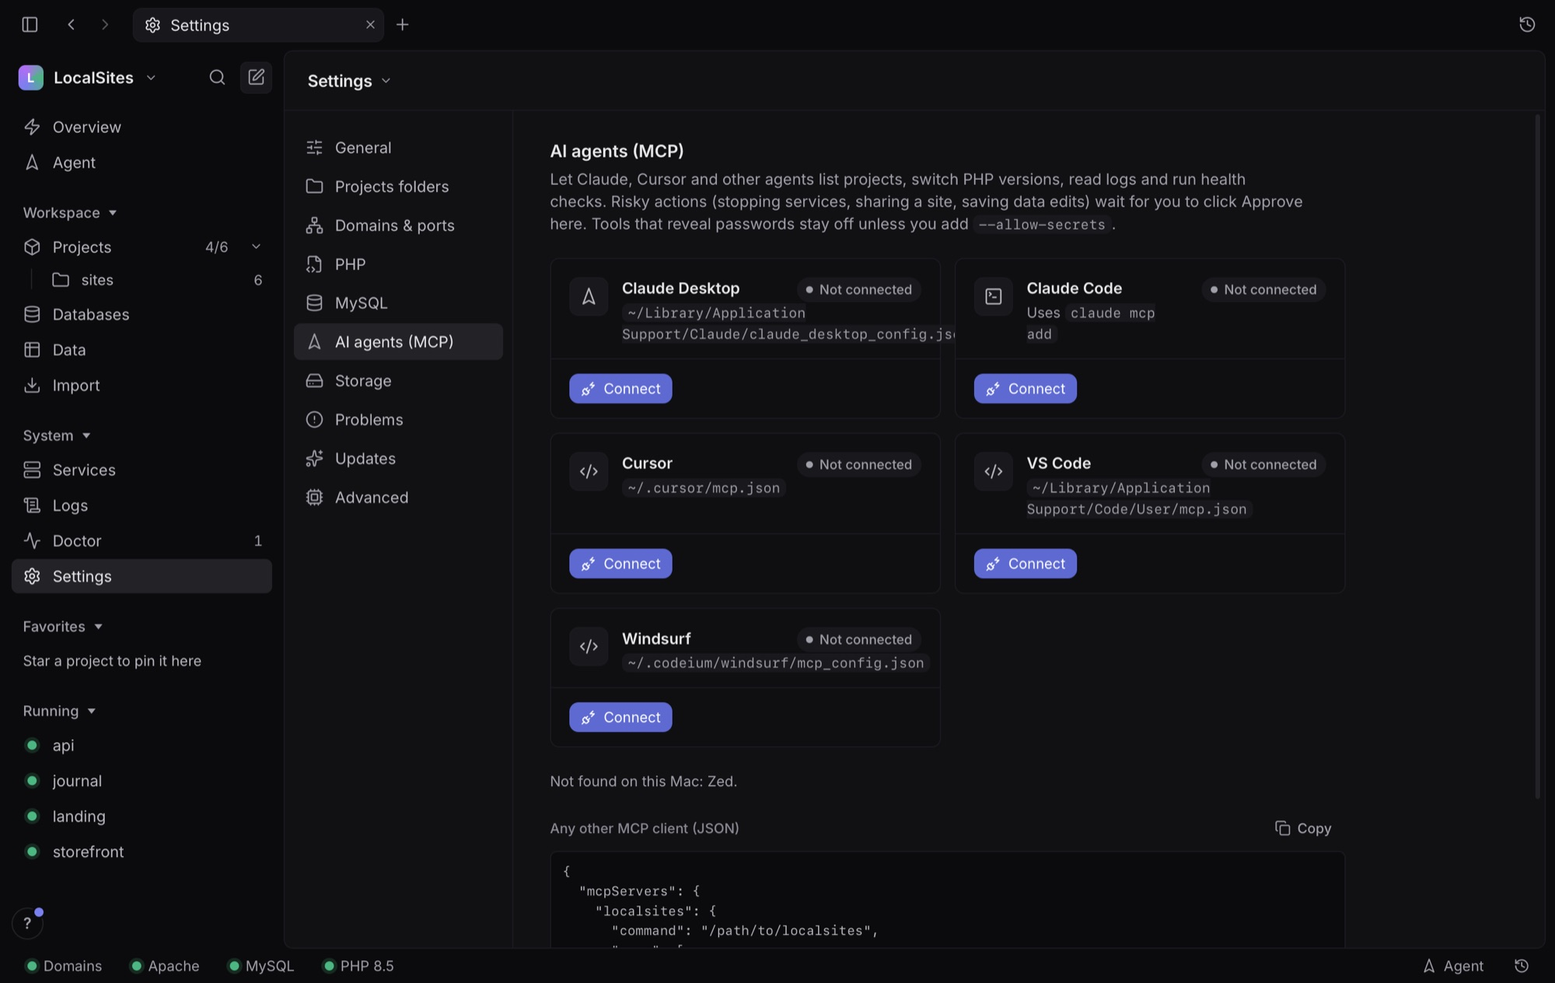
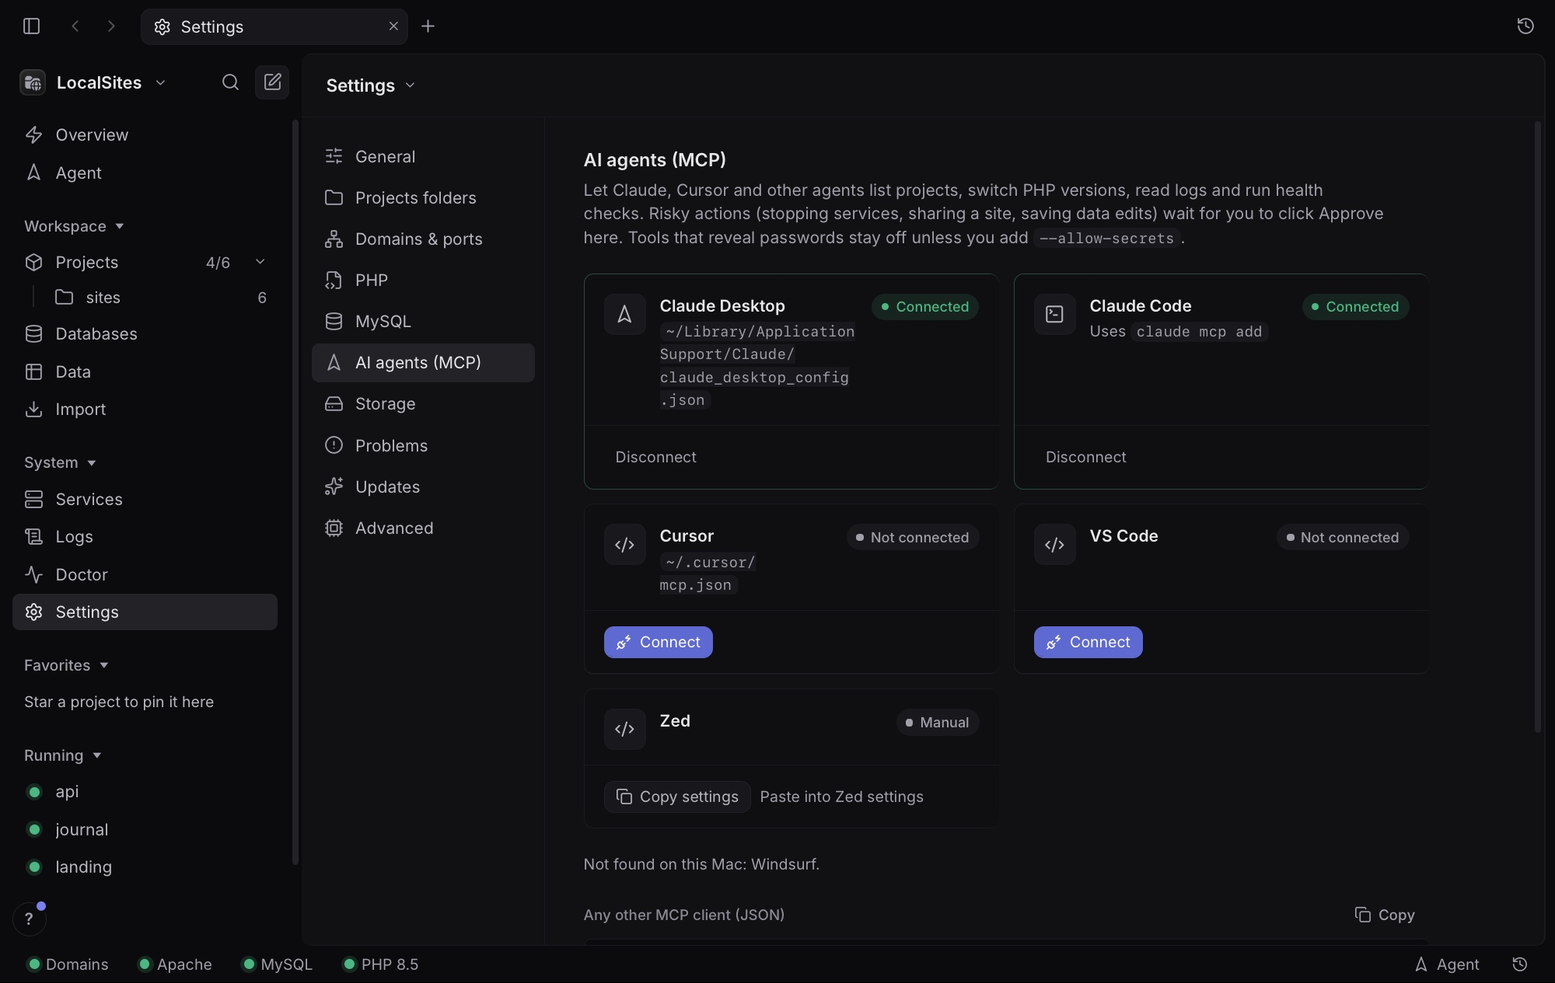
docs: new screenshots with the new features, taken by a script
The README and website screenshots still showed an old placeholder logo and
missed the 1.4 features. tests/ui/screenshots.spec.js now builds a demo
workspace in a throwaway sandbox (sample projects, a shop database, git history)
and takes every screenshot the same way (npx playwright test -c
screenshots.config.js), so they can be redone after any UI change. New:
the Setup card and the editor chooser, on the website (a Setup section) and in
the README. Nothing from the computer taking them is shown.

Also: long config paths in the AI agents cards wrap after a slash instead of
running past the card.

diff --git a/tests/ui/screenshots.spec.js b/tests/ui/screenshots.spec.js
@@ -1,0 +1,193 @@
+// Takes docs/screenshots/*.jpg (see screenshots.config.js). Demo projects and data only: nothing from
+// the computer it runs on is shown.
+const { test, expect } = require('@playwright/test');
+const fs = require('fs'), os = require('os'), path = require('path');
+const { execFileSync } = require('child_process');
+
+const state = () => JSON.parse(fs.readFileSync(path.join(os.tmpdir(), 'lsui-state.json'), 'utf8'));
+const out = (name) => path.join(state().root, 'docs', 'screenshots', name);
+const call = (page, method, params = {}) => page.evaluate(async ([m, p]) => {
+  const r = await fetch('/__call/' + m, { method: 'POST', body: JSON.stringify(p) });
+  const j = await r.json(); if (!r.ok) throw new Error(j.error); return j;
+}, [method, params]);
+const shot = (page, name) => page.screenshot({ path: out(name), type: 'jpeg', quality: 86 });
+
+// The same editors on every machine, so the pictures don't depend on what's installed here
+const APPS = { apps: [
+  { id: 'finder', name: 'Finder', kind: 'files' }, { id: 'vscode', name: 'VS Code', kind: 'editor' }, { id: 'cursor', name: 'Cursor', kind: 'editor' },
+  { id: 'zed', name: 'Zed', kind: 'editor' }, { id: 'phpstorm', name: 'PhpStorm', kind: 'editor' }, { id: 'sublime', name: 'Sublime Text', kind: 'editor' },
+  { id: 'iterm', name: 'iTerm2', kind: 'terminal' }, { id: 'ghostty', name: 'Ghostty', kind: 'terminal' }, { id: 'github', name: 'GitHub Desktop', kind: 'git' },
+  { id: 'safari', name: 'Safari', kind: 'browser' }, { id: 'chrome', name: 'Google Chrome', kind: 'browser' }], defaults: { editor: 'cursor', terminal: 'ghostty' } };
+
+// Fixed answers for what depends on this computer (installed apps, agent apps, GitHub account), and the
+// sandbox's temporary folder shown as ~/Sites
+const json = (body) => (r) => r.fulfill({ contentType: 'application/json', body: JSON.stringify(body) });
+async function stubApps(page, defaults = APPS.defaults) {
+  await page.route('**/__call/apps.list', json({ ...APPS, defaults }));
+  await page.route('**/__call/agents.list', json([
+    { id: 'claude-desktop', name: 'Claude Desktop', found: true, connected: true, config: '~/Library/Application Support/Claude/claude_desktop_config.json' },
+    { id: 'claude-code', name: 'Claude Code', found: true, connected: true },
+    { id: 'cursor', name: 'Cursor', found: true, connected: false, config: '~/.cursor/mcp.json' },
+    { id: 'vscode', name: 'VS Code', found: true, connected: false },
+    { id: 'windsurf', name: 'Windsurf', found: false, connected: false },
+    { id: 'zed', name: 'Zed', found: true, connected: false, manual: '{"context_servers":{}}' }]));
+  await page.route('**/__call/git.hosting', json({ provider: 'github', repo: 'acme/storefront',
+    pull_requests: [{ number: 42, title: 'Stripe payment intents', url: 'https://github.com/acme/storefront/pull/42', isDraft: false, reviewDecision: 'APPROVED' }],
+    runs: [{ workflowName: 'Tests', status: 'completed', conclusion: 'success', url: 'https://github.com/acme/storefront/actions', createdAt: '2026-11-12T16:35:00Z' }] }));
+  const { home } = state();
+  await page.addInitScript(([tmp, real]) => {
+    const fix = () => { const w = document.createTreeWalker(document.body, NodeFilter.SHOW_TEXT); for (let n; (n = w.nextNode());) if (n.nodeValue.includes(tmp)) n.nodeValue = n.nodeValue.split(tmp).join(real); };
+    addEventListener('DOMContentLoaded', () => { fix(); new MutationObserver(fix).observe(document.body, { subtree: true, childList: true, characterData: true }); });
+  }, [path.join(fs.realpathSync(home), 'sites'), '~/Sites']);
+  await page.addInitScript(([tmp, real]) => {
+    const fix = () => { const w = document.createTreeWalker(document.body, NodeFilter.SHOW_TEXT); for (let n; (n = w.nextNode());) if (n.nodeValue.includes(tmp)) n.nodeValue = n.nodeValue.split(tmp).join(real); };
+    addEventListener('DOMContentLoaded', () => { fix(); new MutationObserver(fix).observe(document.body, { subtree: true, childList: true, characterData: true }); });
+  }, [path.join(home, 'sites'), '~/Sites']);
+}
+
+function demoWorkspace() {
+  const { home } = state(), sites = path.join(home, 'sites');
+  for (const old of ['hello', 'pubapp', 'blog']) fs.rmSync(path.join(sites, old), { recursive: true, force: true });
+  const put = (rel, body) => { const f = path.join(sites, rel); fs.mkdirSync(path.dirname(f), { recursive: true }); fs.writeFileSync(f, body); };
+  put('storefront/composer.json', JSON.stringify({ name: 'acme/storefront', require: { php: '^8.3', 'laravel/framework': '^12.0' } }, null, 2));
+  put('storefront/artisan', '#!/usr/bin/env php\n');
+  put('storefront/public/index.php', '<?php echo "storefront";');
+  put('storefront/vendor/autoload.php', '<?php');
+  put('storefront/app/Http/Controllers/CheckoutController.php', '<?php\n\nnamespace App\\Http\\Controllers;\n\nclass CheckoutController {}\n');
+  put('api/composer.json', JSON.stringify({ name: 'acme/api', require: { php: '^8.2' } }, null, 2));
+  put('api/vendor/autoload.php', '<?php');
+  put('api/index.php', '<?php echo json_encode(["ok" => true]);');
+  put('journal/wp-config.php', '<?php');
+  put('journal/index.php', '<?php');
+  put('landing/index.html', '<h1>Landing</h1>');
+  put('dashboard/package.json', JSON.stringify({ name: 'dashboard', scripts: { dev: 'next dev' }, dependencies: { next: '15.0.0', react: '19.0.0' } }, null, 2));
+  fs.mkdirSync(path.join(sites, 'dashboard', 'node_modules'), { recursive: true });
+  put('docs-site/index.html', '<h1>Docs</h1>');
+  // git history (fixed names and dates, so the pictures stay the same)
+  const env = { ...process.env, GIT_AUTHOR_NAME: 'Maya Chen', GIT_AUTHOR_EMAIL: 'maya@example.com', GIT_COMMITTER_NAME: 'Maya Chen', GIT_COMMITTER_EMAIL: 'maya@example.com' };
+  const git = (dir, ...args) => execFileSync('git', ['-C', path.join(sites, dir), ...args], { env, stdio: 'pipe' });
+  for (const dir of ['storefront', 'api', 'journal', 'dashboard']) {
+    git(dir, 'init', '-q', '-b', 'main');
+    git(dir, 'remote', 'add', 'origin', `git@github.com:acme/${dir}.git`);
+  }
+  const commits = [['Set up Laravel 12', '2026-10-02T10:00:00'], ['Product catalogue and search', '2026-10-09T15:20:00'], ['Cart and checkout pages', '2026-10-21T11:45:00']];
+  for (const dir of ['storefront', 'api', 'journal', 'dashboard']) {
+    for (const [msg, date] of dir === 'storefront' ? commits : [['First version', '2026-10-01T09:00:00']]) {
+      put(path.join(dir, 'CHANGES.md'), msg + '\n');
+      git(dir, 'add', '-A');
+      execFileSync('git', ['-C', path.join(sites, dir), 'commit', '-q', '-m', msg], { env: { ...env, GIT_AUTHOR_DATE: date, GIT_COMMITTER_DATE: date }, stdio: 'pipe' });
+    }
+  }
+  git('storefront', 'checkout', '-q', '-b', 'feature/payments');
+  put('storefront/app/Http/Controllers/PaymentController.php', '<?php\n\nnamespace App\\Http\\Controllers;\n\nclass PaymentController {}\n');
+  git('storefront', 'add', '-A');
+  execFileSync('git', ['-C', path.join(sites, 'storefront'), 'commit', '-q', '-m', 'Stripe payment intents'], { env: { ...env, GIT_AUTHOR_DATE: '2026-11-12T16:30:00', GIT_COMMITTER_DATE: '2026-11-12T16:30:00' }, stdio: 'pipe' });
+  put('storefront/app/Http/Controllers/CheckoutController.php', '<?php\n\nnamespace App\\Http\\Controllers;\n\nclass CheckoutController\n{\n    // pay with the saved card\n}\n');
+  put('storefront/resources/views/checkout.blade.php', '<form></form>\n');
+  // the demo shop database
+  const rows = ['Linen Overshirt', 'Merino Crew Sweater', 'Canvas Tote', 'Selvedge Denim', 'Leather Card Wallet', 'Wool Beanie', 'Oxford Shirt', 'Chore Jacket', 'Cotton Tee 3-Pack', 'Suede Desert Boots', 'Weekender Bag', 'Cashmere Scarf'];
+  const prices = [89, 129, 39, 149, 59, 29, 79, 189, 49, 169, 219, 99], stock = [24, 12, 80, 9, 41, 63, 30, 7, 120, 15, 5, 18];
+  const sql = `CREATE TABLE products (id INT PRIMARY KEY AUTO_INCREMENT, name VARCHAR(80) NOT NULL, sku VARCHAR(20) NOT NULL, price DECIMAL(8,2) NOT NULL, stock INT NOT NULL, created_at DATETIME NOT NULL);
+INSERT INTO products (name, sku, price, stock, created_at) VALUES ${rows.map((n, i) => `('${n}', 'LS-${1001 + i}', ${prices[i]}.00, ${stock[i]}, '2026-10-${String(2 + i * 2 > 28 ? 28 : 2 + i * 2).padStart(2, '0')} ${String(8 + (i % 9)).padStart(2, '0')}:${String((i * 17) % 60).padStart(2, '0')}:00')`).join(',\n')};
+CREATE TABLE customers (id INT PRIMARY KEY AUTO_INCREMENT, name VARCHAR(80), email VARCHAR(120));
+INSERT INTO customers (name, email) VALUES ('Maya Chen', 'maya@example.com'), ('Leo Martin', 'leo@example.com'), ('Ava Patel', 'ava@example.com');
+CREATE TABLE orders (id INT PRIMARY KEY AUTO_INCREMENT, customer_id INT, total DECIMAL(8,2), placed_at DATETIME);
+INSERT INTO orders (customer_id, total, placed_at) VALUES (1, 218.00, '2026-11-02 10:12:00'), (2, 59.00, '2026-11-05 18:40:00'), (3, 338.00, '2026-11-11 09:05:00');
+`;
+  const file = path.join(home, 'storefront-demo.sql');
+  fs.writeFileSync(file, sql);
+  return file;
+}
+
+test.describe.configure({ mode: 'serial' });
+
+test('set up the demo workspace', async ({ page }) => {
+  const file = demoWorkspace();
+  await page.goto('/');
+  for (const f of ['api', 'journal', 'landing', 'storefront']) await call(page, 'sites.update', { folder: f, enabled: true, php: '8.5' });
+  await call(page, 'db.create', { name: 'storefront' });
+  await call(page, 'db.import', { name: 'storefront', file });
+  await call(page, 'sites.update', { folder: 'storefront', database: 'storefront' });
+});
+
+test('projects (dark and light)', async ({ page, browser }) => {
+  await stubApps(page);
+  await page.goto('/#projects/storefront'); await page.reload();
+  await expect(page.locator('.row[data-row="storefront"]')).toBeVisible();
+  await expect(page.locator('#detail')).toContainText('storefront');
+  await page.waitForTimeout(800);
+  await shot(page, 'projects.jpg');
+  const light = await browser.newContext({ storageState: path.join(os.tmpdir(), 'lsui-auth.json'), viewport: { width: 1280, height: 809 }, deviceScaleFactor: 1.5625, colorScheme: 'light' });
+  const lp = await light.newPage();
+  await stubApps(lp);
+  await lp.goto('/#projects/storefront');
+  await expect(lp.locator('#detail')).toContainText('storefront');
+  await lp.waitForTimeout(800);
+  await shot(lp, 'projects-light.jpg');
+  await light.close();
+});
+
+test('choose your editor', async ({ page }) => {
+  await stubApps(page, {});
+  await page.goto('/#projects/storefront'); await page.reload();
+  await page.locator('#detail [data-openwith="editor"]').scrollIntoViewIfNeeded();
+  await page.locator('#detail [data-openwith="editor"]').click();
+  await expect(page.locator('#keysDialog')).toContainText('Which code editor');
+  await page.waitForTimeout(400);
+  await shot(page, 'editor-chooser.jpg');
+});
+
+test('setup card', async ({ page }) => {
+  const items = [
+    { id: 'domains', title: '.test domains and HTTPS', why: '.test addresses don’t open yet; browsers would warn “Your connection is not private”', kind: 'system', required: true, password: true, steps: ['send .test addresses to LocalSites, then trust the LocalSites certificate (it can only be used for .test addresses)'] },
+    { id: 'php@7.4', title: 'PHP 7.4', why: 'intl can’t load (icu4c@77 is missing) · 3 projects use it', kind: 'repair', required: true, password: false, steps: ['brew trust shivammathur/php', 'brew reinstall shivammathur/php/php@7.4'] },
+    { id: 'php@8.2', title: 'PHP 8.2', why: 'not installed · 1 project uses it', kind: 'install', required: true, password: false, steps: ['brew install shivammathur/php/php@8.2'] }];
+  await stubApps(page);
+  await page.route('**/__call/setup.status', r => r.fulfill({ contentType: 'application/json', body: JSON.stringify({ homebrew: true, items, running: false, log: '' }) }));
+  await page.goto('/#overview'); await page.reload();
+  await expect(page.locator('.ov-sec.setup')).toContainText('Fix everything');
+  await page.waitForTimeout(600);
+  await shot(page, 'setup.jpg');
+});
+
+test('data browser', async ({ page }) => {
+  await stubApps(page);
+  await page.goto('/#data'); await page.reload();
+  await expect(page.locator('#dSchema')).toBeVisible();
+  await page.locator('#dSchema').selectOption('storefront');
+  await page.locator('.tlist [data-dtable="products"]').click();
+  await expect(page.locator('#view')).toContainText('Linen Overshirt');
+  await page.waitForTimeout(500);
+  await shot(page, 'data-browser.jpg');
+});
+
+test('git', async ({ page }) => {
+  await stubApps(page);
+  await page.goto('/#projects/storefront'); await page.reload();
+  await page.locator('#detail [data-dpane="git"]').first().click();
+  await expect(page.locator('#detail')).toContainText('Stripe payment intents');
+  await page.waitForTimeout(800);
+  await shot(page, 'git.jpg');
+});
+
+test('palette, services and agents', async ({ page }) => {
+  await stubApps(page);
+  await page.goto('/#projects'); await page.reload();
+  await expect(page.locator('.row[data-row="storefront"]')).toBeVisible();
+  await page.keyboard.press('Meta+k');
+  await page.locator('#pInput').fill('store');
+  await page.waitForTimeout(500);
+  await shot(page, 'palette.jpg');
+  await page.keyboard.press('Escape');
+  await page.goto('/#services');
+  const addons = page.locator('.c-section', { hasText: 'Add-ons' });
+  await addons.waitFor();
+  await addons.evaluate(el => el.scrollIntoView({ block: 'start' }));
+  await page.waitForTimeout(800);
+  await shot(page, 'services.jpg');
+  await page.goto('/#settings');
+  await page.locator('[data-setsec="agents"]').click();
+  await expect(page.locator('#view')).toContainText('Claude Desktop');
+  await page.waitForTimeout(500);
+  await shot(page, 'agents.jpg');
+});

diff --git a/site/index.html b/site/index.html
@@ -419,6 +419,7 @@ h1, h2, h3 { text-wrap: balance; }
     <a class="brand" href="./" aria-label="LocalSites home"><svg class="logo" aria-hidden="true" viewBox="0 0 24 24"><path fill="currentColor" d="M1.5 6.75C1.5 5.75544 1.89509 4.80161 2.59835 4.09835C3.30161 3.39509 4.25544 3 5.25 3H8.379C8.97554 3.00053 9.54745 3.23792 9.969 3.66L12 5.688L8.91 8.778C8.84029 8.84832 8.75734 8.90415 8.66595 8.94225C8.57455 8.98035 8.47652 8.99998 8.3775 9H1.5V6.75ZM1.5 10.5V17.25C1.5 18.2446 1.89509 19.1984 2.59835 19.9016C3.30161 20.6049 4.25544 21 5.25 21H9.9C9.0367 19.3101 8.7824 17.3742 9.17994 15.5186C9.57747 13.663 10.6026 12.0013 12.0824 10.8133C13.5623 9.62538 15.4064 8.98393 17.304 8.99708C19.2017 9.01023 21.0367 9.67717 22.5 10.8855V9.75C22.5 8.75544 22.1049 7.80161 21.4016 7.09835C20.6984 6.39509 19.7446 6 18.75 6H13.8105L9.9705 9.84C9.76141 10.0493 9.51308 10.2154 9.23973 10.3287C8.96638 10.4419 8.67338 10.5001 8.3775 10.5H1.5ZM15.825 12.225C15.39 13.3155 15.0855 14.808 15.015 16.5H19.485C19.4145 14.808 19.11 13.3155 18.675 12.225C18.4245 11.5995 18.1455 11.142 17.8725 10.854C17.6025 10.569 17.3925 10.5 17.25 10.5C17.1075 10.5 16.8975 10.569 16.6275 10.854C16.3545 11.142 16.0755 11.5995 15.825 12.225ZM14.745 10.98C14.629 11.2041 14.5244 11.4339 14.4315 11.6685C13.9155 12.96 13.584 14.649 13.515 16.5H10.5405C10.676 15.2855 11.1387 14.1305 11.8791 13.1584C12.6196 12.1862 13.6101 11.4333 14.745 10.98ZM19.755 10.98C19.867 11.198 19.971 11.4275 20.067 11.6685C20.5845 12.9615 20.9145 14.649 20.985 16.5H23.958C23.8226 15.2857 23.3602 14.1308 22.62 13.1587C21.8798 12.1865 20.8896 11.4335 19.755 10.98ZM23.958 18H20.985C20.9145 19.851 20.5845 21.54 20.067 22.8315C19.971 23.0715 19.867 23.301 19.755 23.52C20.8896 23.0665 21.8798 22.3135 22.62 21.3413C23.3602 20.3692 23.8226 19.2143 23.958 18ZM17.25 24C17.391 24 17.6025 23.931 17.8725 23.646C18.1455 23.358 18.4245 22.9005 18.675 22.275C19.11 21.1845 19.4145 19.692 19.485 18H15.015C15.0855 19.692 15.39 21.1845 15.825 22.275C16.0755 22.9005 16.3545 23.358 16.6275 23.646C16.8975 23.931 17.1075 24 17.25 24ZM14.745 23.52C13.6099 23.0669 12.619 22.3141 11.8783 21.3419C11.1375 20.3697 10.6746 19.2147 10.539 18H13.515C13.5855 19.851 13.917 21.54 14.433 22.8315C14.53 23.0715 14.634 23.301 14.745 23.52Z"/></svg>LocalSites</a>
     <nav class="links" aria-label="Sections">
       <a href="#features">Features</a>
+      <a href="#setup">Setup</a>
       <a href="#data">Databases</a>
       <a href="#agents">AI agents</a>
       <a href="#switch">Switching</a>
@@ -531,6 +532,28 @@ h1, h2, h3 { text-wrap: balance; }
     </div>
   </section>
 
+  <section id="setup" class="chapter">
+    <div class="wrap head reveal">
+      <div class="eyebrow">Setup</div>
+      <h2>It sets itself up</h2>
+        <p class="sub">No Terminal. Overview lists what's missing or broken, and one click fixes it all.</p>
+    </div>
+    <div class="grow-shot reveal">
+      <div class="shot"><img src="screenshots/setup.jpg" loading="lazy" width="2000" height="1264" alt="Overview listing .test domains, a PHP version to repair and one to install, with a Fix everything button"></div>
+    </div>
+    <div class="wrap">
+      <ul class="points cols reveal">
+          <li><svg viewBox="0 0 24 24" fill="none" stroke="currentColor" stroke-width="2" aria-hidden="true"><path d="M20 6 9 17l-5-5"/></svg><span><b>Fix everything</b>Installs Apache, MySQL 8.4 and every PHP version your projects use, and repairs PHP that Homebrew updates broke.</span></li>
+          <li><svg viewBox="0 0 24 24" fill="none" stroke="currentColor" stroke-width="2" aria-hidden="true"><path d="M20 6 9 17l-5-5"/></svg><span><b>.test without Valet</b>One password prompt sends .test to LocalSites and trusts its certificate, which can only sign .test names.</span></li>
+          <li><svg viewBox="0 0 24 24" fill="none" stroke="currentColor" stroke-width="2" aria-hidden="true"><path d="M20 6 9 17l-5-5"/></svg><span><b>Your editor, never a guess</b>The first Open asks which editor or terminal you use and remembers it. Change it any time.</span></li>
+          <li><svg viewBox="0 0 24 24" fill="none" stroke="currentColor" stroke-width="2" aria-hidden="true"><path d="M20 6 9 17l-5-5"/></svg><span><b>Rename, hide or trash</b>Settings, logs and the address follow a renamed folder. Databases are never touched.</span></li>
+      </ul>
+    </div>
+    <div class="grow-shot reveal" style="margin-top:56px">
+      <div class="shot"><img src="screenshots/editor-chooser.jpg" loading="lazy" width="2000" height="1264" alt="The first Open asks which code editor to use: VS Code, Cursor, Zed, PhpStorm or Sublime Text, with Remember my choice"></div>
+    </div>
+  </section>
+
   <section id="data" class="chapter band">
     <div class="wrap head reveal">
       <div class="eyebrow">Databases</div>
@@ -544,7 +567,7 @@ h1, h2, h3 { text-wrap: balance; }
       <ul class="points cols reveal">
           <li><svg viewBox="0 0 24 24" fill="none" stroke="currentColor" stroke-width="2" aria-hidden="true"><path d="M20 6 9 17l-5-5"/></svg><span><b>Read-only first</b>Every connection starts read-only.</span></li>
           <li><svg viewBox="0 0 24 24" fill="none" stroke="currentColor" stroke-width="2" aria-hidden="true"><path d="M20 6 9 17l-5-5"/></svg><span><b>See the SQL before it runs</b>Edits are staged and saved in one transaction.</span></li>
-          <li><svg viewBox="0 0 24 24" fill="none" stroke="currentColor" stroke-width="2" aria-hidden="true"><path d="M20 6 9 17l-5-5"/></svg><span><b>One login per project</b>No shared root. Passwords live in the macOS Keychain.</span></li>
+          <li><svg viewBox="0 0 24 24" fill="none" stroke="currentColor" stroke-width="2" aria-hidden="true"><path d="M20 6 9 17l-5-5"/></svg><span><b>One login per project</b>No shared root. Passwords live in the macOS Keychain or your Linux keyring.</span></li>
           <li><svg viewBox="0 0 24 24" fill="none" stroke="currentColor" stroke-width="2" aria-hidden="true"><path d="M20 6 9 17l-5-5"/></svg><span><b>Backups before anything risky</b>Export, import, restore and duplicate. Open in TablePlus, Sequel Ace or Adminer.</span></li>
       </ul>
     </div>

diff --git a/desktop/frontend/dist/app.js b/desktop/frontend/dist/app.js
@@ -997,7 +997,7 @@ function agentCard(c) {
     : c.connected ? UI.btn('Disconnect', { kind: 'ghost', attrs: `data-agentoff="${c.id}"` })
     : UI.btn('Connect', { ic: 'plugZap', kind: 'primary', attrs: `data-agenton="${c.id}"` });
   return UI.card({ ic: (AGENT_IC[c.id] || (() => icon.agent))(), title: c.name, status: c.manual ? UI.status('off', 'Manual') : UI.status(c.connected ? 'on' : 'off', c.connected ? 'Connected' : 'Not connected'),
-    sub: c.config ? `<code title="${esc(c.config)}">${esc(c.config.replace(/^\/Users\/[^/]+/, '~'))}</code>` : c.id === 'claude-code' ? 'Uses <code>claude mcp add</code>' : '', foot, on: c.connected, attrs: `data-agent="${c.id}"` });
+    sub: c.config ? `<code title="${esc(c.config)}">${esc(c.config.replace(/^\/Users\/[^/]+/, '~')).replace(/\//g, '/<wbr>')}</code>` : c.id === 'claude-code' ? 'Uses <code>claude mcp add</code>' : '', foot, on: c.connected, attrs: `data-agent="${c.id}"` });
 }
 let approvalsShown = '';
 function renderApprovals(list) {

diff --git a/tests/ui/screenshots.config.js b/tests/ui/screenshots.config.js
@@ -1,0 +1,14 @@
+// Screenshots for the README and the website (docs/screenshots), taken from the real UI and a real,
+// isolated LocalSites with demo projects: npx playwright test -c screenshots.config.js
+// WebKit, like the macOS app; 1280×809 at 1.5625× = the 2000×1264 images the site expects.
+const { defineConfig } = require('@playwright/test');
+module.exports = defineConfig({
+  testDir: '.',
+  testMatch: 'screenshots.spec.js',
+  timeout: 120_000,
+  workers: 1,
+  globalSetup: require.resolve('./sandbox-setup.js'),
+  globalTeardown: require.resolve('./sandbox-teardown.js'),
+  use: { baseURL: process.env.LS_UI_URL, storageState: require('path').join(require('os').tmpdir(), 'lsui-auth.json'),
+    browserName: 'webkit', viewport: { width: 1280, height: 809 }, deviceScaleFactor: 1.5625, colorScheme: 'dark' },
+});

diff --git a/desktop/frontend/dist/styles.css b/desktop/frontend/dist/styles.css
@@ -1001,3 +1001,4 @@ table.dbt .acts .icon-btn svg { width: 16px; height: 16px; }
 .app-pick .btn { justify-content: flex-start; }
 .app-remember { gap: 8px; font-size: 13px; }
 .ov-why:empty { display: none; } /* Linux: no number on the app icon to explain */
+.c-sub code { overflow-wrap: break-word; } /* a long config path wraps inside the card instead of running past it */

diff --git a/tests/ui/playwright.config.js b/tests/ui/playwright.config.js
@@ -3,6 +3,7 @@
 const { defineConfig } = require('@playwright/test');
 module.exports = defineConfig({
   testDir: '.',
+  testIgnore: 'screenshots.spec.js', // run with -c screenshots.config.js
   timeout: 60_000,
   workers: 1, // one shared sandbox service
   retries: 0,

diff --git a/README.md b/README.md
@@ -65,6 +65,16 @@ does nothing until something changes. MySQL sleeps when nothing needs it.
 | **Your editor, your terminal** | Open any project in the editor or terminal you choose (VS Code, Cursor, Zed, PhpStorm, Sublime, iTerm2, Ghostty, kitty and more). LocalSites asks once and never guesses |
 | **Rename, hide or trash** | Rename a project folder and its settings and address follow; hide it from LocalSites; or move it to the Trash. Its database is never touched |
 
+### Sets itself up
+
+<img src="docs/screenshots/setup.jpg" alt="Overview listing .test domains, a PHP version to repair and one to install, with a Fix everything button" width="900">
+
+Overview lists what's missing or broken (Apache, MySQL, the PHP versions your projects use, `.test` domains and
+HTTPS) and **Fix everything** sorts it out in the background, with at most one password prompt. The first time you
+open a project in an editor, LocalSites asks which one you use instead of guessing:
+
+<img src="docs/screenshots/editor-chooser.jpg" alt="The first Open asks which code editor to use, with Remember my choice" width="900">
+
 ### Databases, with a real data browser
 
 <img src="docs/screenshots/data-browser.jpg" alt="LocalSites data browser showing a products table in MySQL, read-only by default" width="900">
